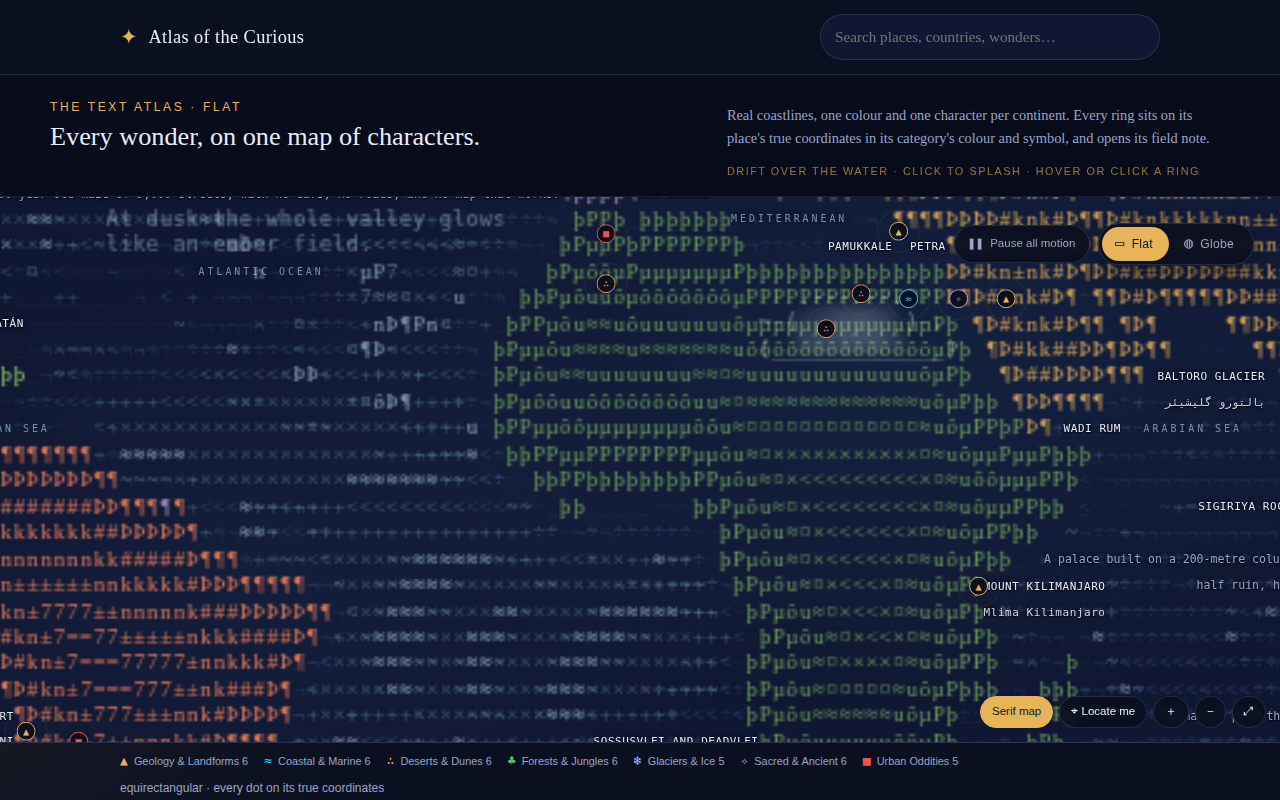
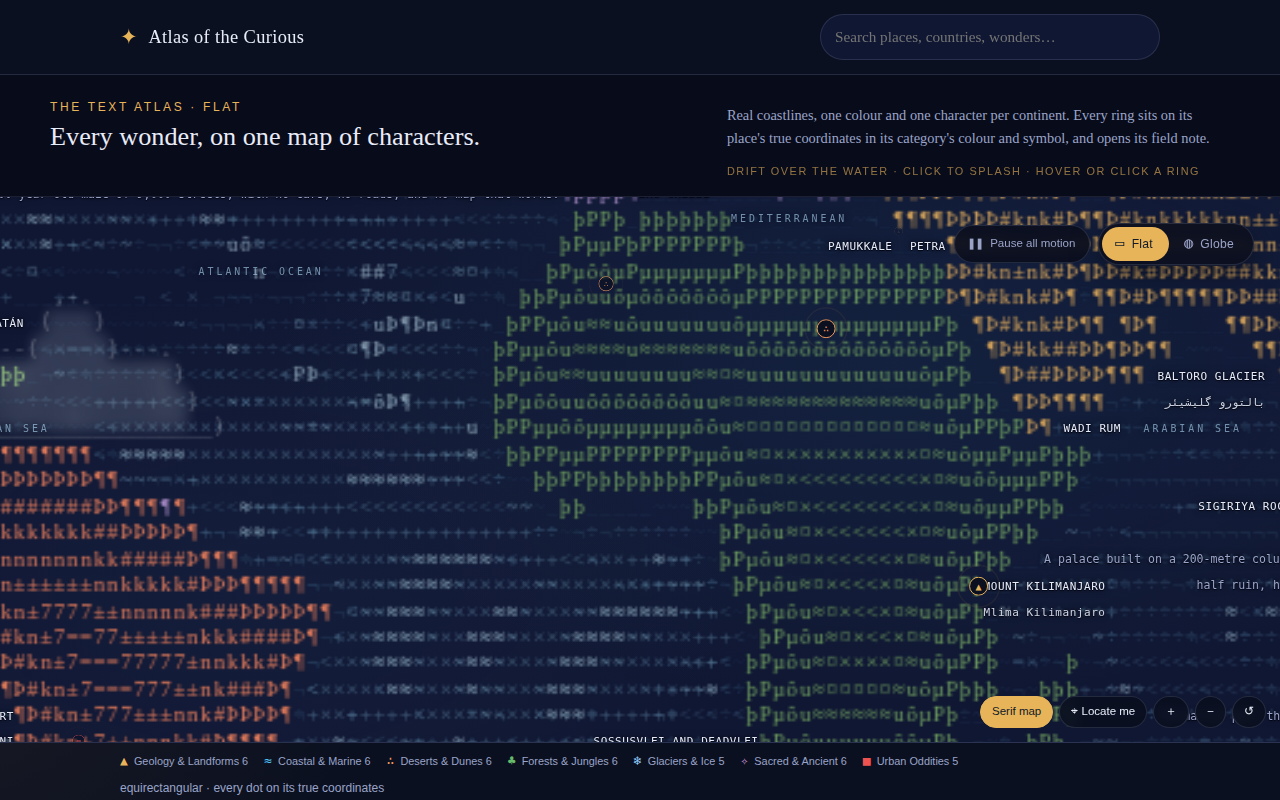
Address review round 8: framed Countries, desktop targets, hints, reset
- Choosing Countries on the atlas globe frames the open card's place, or
  the atlas place nearest the view, instead of open ocean.
- Flat rings answer a 25px target with a mouse too, and rings whose
  targets would overlap merge into numbered clusters at overview zoom
  (split before names appear).
- Instructions name Command on a Mac and Control elsewhere, and describe
  the turn buttons and keyboard zoom.
- Reset uses ↺ rather than the fullscreen-like ⤢.

diff --git a/index.html b/index.html
@@ -64,7 +64,7 @@
         </p>
         <p class="atlas-hint for-flat hint-pointer">drift over the water · click to splash · hover or click a ring</p>
         <p class="atlas-hint for-flat hint-touch">numbered rings zoom in · symbol rings open notes</p>
-        <p class="atlas-hint for-globe hint-pointer">drag to turn · ctrl + scroll to zoom · hover or click a ring</p>
+        <p class="atlas-hint for-globe hint-pointer">drag to turn · <span class="mod-key">ctrl</span> + scroll to zoom · hover or click a ring</p>
         <p class="atlas-hint for-globe hint-touch">swipe sideways to turn · numbered rings zoom in · symbol rings open notes</p>
       </div>
       <div class="map-viewport" role="group" aria-label="The atlas map, shown as a flat character map or as a turning character globe, with 40 marked places.">
@@ -77,7 +77,7 @@
         </div>
         <p class="atlas-filter" id="atlas-filter" hidden><span class="atlas-filter-text" id="atlas-filter-text" role="status"></span><button class="atlas-filter-clear" id="atlas-filter-clear" type="button">Clear</button></p>
         <p class="gesture-hint" id="gesture-hint" role="status" hidden></p>
-        <p class="visually-hidden" id="flat-instructions">Tab to a dot to preview it and press Enter to open it. Plus and minus zoom, arrow keys pan a zoomed map, 0 resets.</p>
+        <p class="visually-hidden" id="flat-instructions">Tab to a ring to preview it and press Enter to open it. Hold <span class="mod-key-name">Control</span> and scroll, or press plus and minus, to zoom; arrow keys pan a zoomed map; 0 resets.</p>
         <!-- map stage injected here by js/map.js -->
         <!-- The globe (earthxt/app.js) is loaded by js/views.js the first time
              this view opens; until then it is only this markup. -->
@@ -88,7 +88,7 @@
             <div id="globe-markers" role="group" aria-label="Atlas places on the globe"></div>
             <div class="loading-state" id="loading" role="status"><span class="loading-glyph" aria-hidden="true">◍</span>Wrapping the atlas onto a sphere…</div>
           </div>
-          <p class="visually-hidden" id="globe-instructions">Drag or use the arrow keys to turn the globe, scroll, pinch or press plus and minus to zoom, 0 resets, space toggles rotation.</p>
+          <p class="visually-hidden" id="globe-instructions">Drag, use the arrow keys or the turn buttons to turn the globe. Hold <span class="mod-key-name">Control</span> and scroll, pinch, or press plus and minus to zoom; 0 resets; space toggles rotation.</p>
           <p class="globe-error" id="data-error" role="status" hidden></p>
         </div>
         <div class="map-controls" data-for="flat" role="group" aria-label="Map controls">
@@ -97,7 +97,7 @@
           <button class="map-btn" id="map-locate" type="button" title="Show where I am on the map">⌖ Locate me</button>
           <button class="map-btn" id="map-zoom-in" type="button" aria-label="Zoom in" title="Zoom in (+)">＋</button>
           <button class="map-btn" id="map-zoom-out" type="button" aria-label="Zoom out" title="Zoom out (−)">−</button>
-          <button class="map-btn" id="map-zoom-reset" type="button" aria-label="Reset map view" title="Reset view">⤢</button>
+          <button class="map-btn" id="map-zoom-reset" type="button" aria-label="Reset map view" title="Reset view">↺</button>
         </div>
         <div class="map-controls globe-controls" data-for="globe" role="group" aria-label="Globe controls" hidden>
           <div class="lod-switch" role="group" aria-label="Level of detail">
@@ -117,7 +117,7 @@
           <div class="zoom-group" role="group" aria-label="Zoom">
             <button class="map-btn" id="zoom-in" type="button" aria-label="Zoom in" title="Zoom in (+)">＋</button>
             <button class="map-btn" id="zoom-out" type="button" aria-label="Zoom out" title="Zoom out (−)">−</button>
-            <button class="map-btn" id="reset-view" type="button" aria-label="Reset globe view" title="Reset view (0)">⤢</button>
+            <button class="map-btn" id="reset-view" type="button" aria-label="Reset globe view" title="Reset view (0)">↺</button>
           </div>
         </div>
       </div>

diff --git a/earthxt/app.js b/earthxt/app.js
@@ -38,6 +38,7 @@ const pointers = new Map();
 let pinchDistance = 0;
 let placeLayer;
 let active = true;
+let embeddedMode = false;
 const places = globePlaces(window.ATLAS_DATA?.places || []);
 
 function setRotation(enabled) {
@@ -183,6 +184,16 @@ function frame(time) {
   }
   frameId = requestAnimationFrame(frame);
 }
+function nearestPlace(latitude, longitude) {
+  const rad = Math.PI / 180;
+  let best = places[0], bestCos = -2;
+  for (const place of places) {
+    const cos = Math.sin(latitude * rad) * Math.sin(place.latitude * rad)
+      + Math.cos(latitude * rad) * Math.cos(place.latitude * rad) * Math.cos((place.longitude - longitude) * rad);
+    if (cos > bestCos) { bestCos = cos; best = place; }
+  }
+  return best;
+}
 function gestureDistance() {
   const [a, b] = [...pointers.values()];
   return b ? Math.hypot(a.x - b.x, a.y - b.y) : 0;
@@ -264,7 +275,19 @@ function setupControls() {
   }
   listen('zoom-slider', 'input', event => zoomTo(zoomToDistance(Number(event.target.value) / 100)));
   // Choosing a level of detail is choosing to look: rotation stops.
-  for (const button of document.querySelectorAll('[data-level]')) button.addEventListener('click', () => { setRotation(false); zoomTo(LEVELS[Number(button.dataset.level)].targetDistance); });
+  for (const button of document.querySelectorAll('[data-level]')) button.addEventListener('click', () => {
+    setRotation(false);
+    const next = LEVELS[Number(button.dataset.level)];
+    // Close detail over open ocean shows nothing: frame the open card's place,
+    // or else the atlas place nearest the centre of the view.
+    if (embeddedMode && next.labels && state.source === 'earth' && places.length) {
+      const target = places.find(place => place.id === placeLayer?.activeId) || nearestPlace(state.latitude, state.longitude);
+      state.latitude = target.latitude;
+      state.longitude = target.longitude;
+      setText('live-status', `${next.name} detail around ${target.name}.`);
+    }
+    zoomTo(next.targetDistance);
+  });
   bindToggle('labels-toggle', on => { state.labels = on; dirty = true; });
   bindToggle('grid-toggle', on => { state.grid = on; dirty = true; });
   bindToggle('serif-toggle', (on, toggle) => {
@@ -316,6 +339,7 @@ function setActive(next) {
  */
 async function main({ embedded = false } = {}) {
   const hashPrefix = embedded ? '#/globe/place/' : '#/place/';
+  embeddedMode = embedded;
   const roles = readFontRoles(document, ['globe-label', 'map-label', 'hover-card', 'native-name', 'hover-name', 'hover-loc', 'hover-cta']);
   if (!roles['globe-label']) throw new Error('The globe-label font role is missing.');
   renderer = new TextRenderer($('globe'), $('country-labels'), {

diff --git a/js/map.js b/js/map.js
@@ -1968,13 +1968,15 @@ import {
       requestPlacement();
     }
   }
-  /* Phone overview: rings closer than a ring's width merge into one numbered
+  /* Overview: rings whose hit areas would overlap merge into one numbered
      ring, as on the globe, and tapping it zooms in until they separate. The
      merged dots stay in the DOM (hidden), so filtering and routing see them. */
-  const CLUSTER_PX = 21, CLUSTER_UNTIL = 2.2;
+  // Phones keep clusters to a closer zoom; a desktop splits them before the
+  // first zoom tier routes names, so a name never belongs to a hidden ring.
+  const CLUSTER_PX = isMobile ? 21 : 24, CLUSTER_UNTIL = isMobile ? 2.2 : 1.25;
   let clusterEls = [], clusterZoom = -1;
   function reclusterFlat(force) {
-    if (!isMobile || !markersEl) return;
+    if (!markersEl) return;
     const z = (view && view.zoom) || 1;
     if (!force && (z >= CLUSTER_UNTIL) === (clusterZoom >= CLUSTER_UNTIL) && Math.abs(z - clusterZoom) < 0.05) return;
     clusterZoom = z;

diff --git a/css/globe.css b/css/globe.css
@@ -404,7 +404,10 @@
   color: var(--chip-accent);
 }
 
-/* The phone flat map's merged rings (js/map.js reclusterFlat). */
+/* Every flat ring answers a 25px target, wider than the 19px it draws. */
+.map-marker::after { content: ""; position: absolute; inset: -3px; border-radius: 50%; }
+
+/* The flat map's merged rings (js/map.js reclusterFlat). */
 /* A merged dot is transparent, not gone: Tab still reaches each place, and
    the focused one shows itself above its cluster. */
 .map-marker.is-clustered { opacity: 0; pointer-events: none; animation: none; }

diff --git a/js/views.js b/js/views.js
@@ -142,5 +142,11 @@ if (section && globeView) {
     }).observe(intro);
   }
 
+  // Zoom takes Command on a Mac and Control elsewhere (js/gesture-hint.js).
+  if (/Mac|iPhone|iPad/.test(navigator.platform || "")) {
+    for (const el of document.querySelectorAll(".mod-key")) el.textContent = "⌘";
+    for (const el of document.querySelectorAll(".mod-key-name")) el.textContent = "Command";
+  }
+
   if (isGlobeHash(location.hash)) setView("globe");
 }
